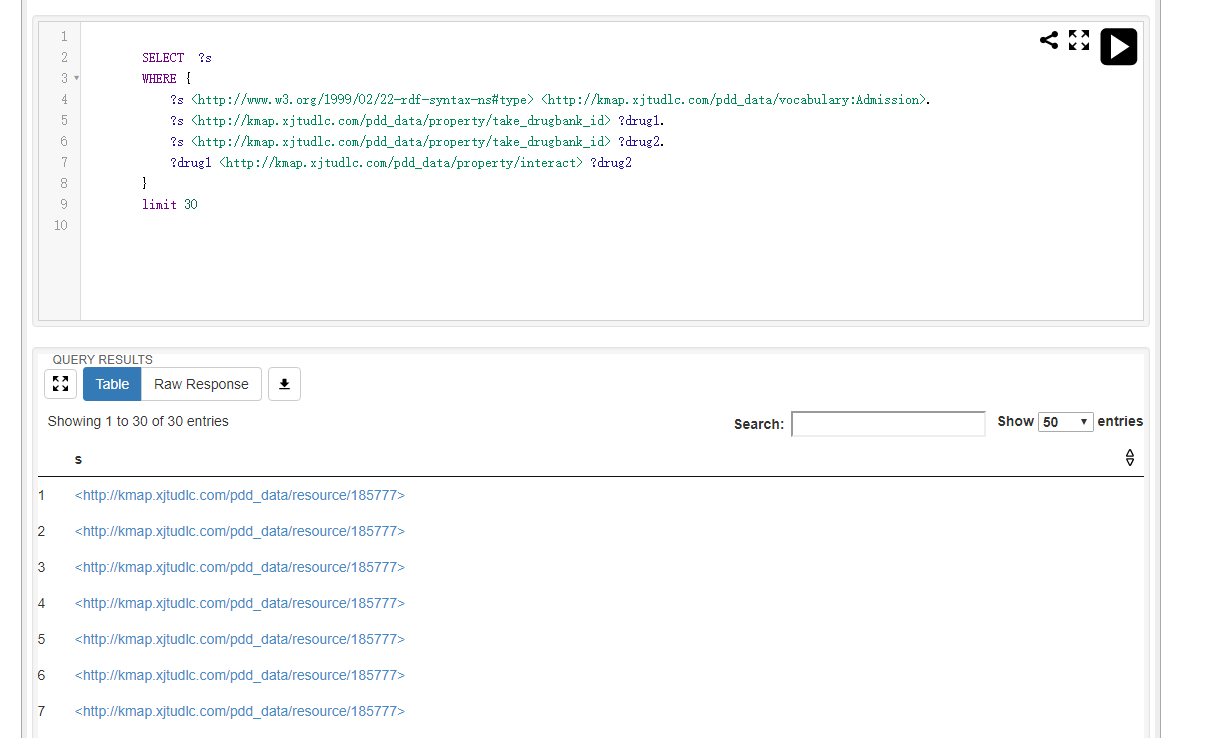
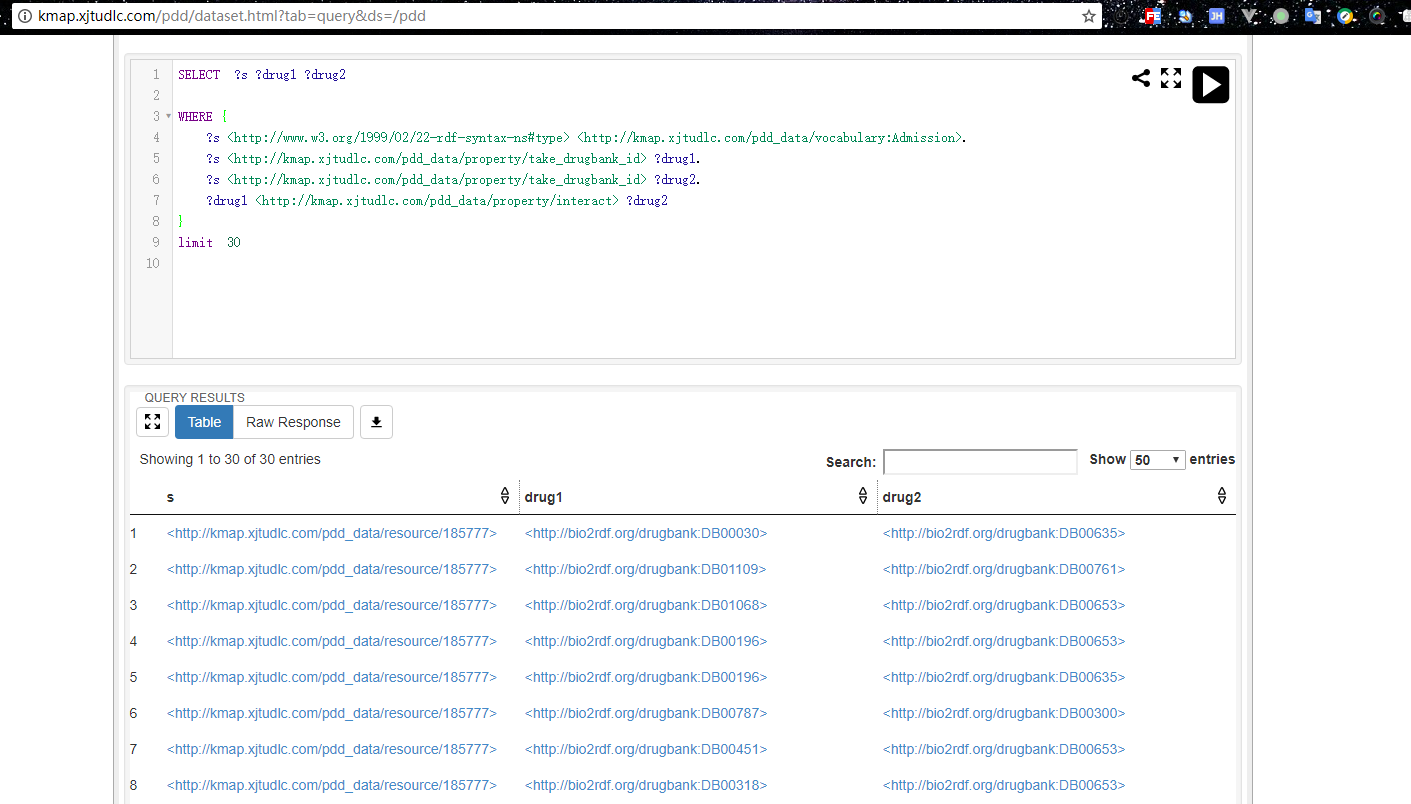
V1.3 补充说明

diff --git a/Tutorial.html b/Tutorial.html
@@ -115,10 +115,12 @@
     </code></pre>
     </p>
         <img src="my/example4.png" alt="">
-	<p id="example5">5. The patients who have taken in the drugs that interact with each other </p>
+        <p id="example5">5. The patients who have taken in the drugs that interact with each other（top 30 records）
+        </p>
     <p>
     <pre><code>
-SELECT  ?s
+SELECT  ?s ?drug1 ?drug2
+
 WHERE {
 	?s &lt;http://www.w3.org/1999/02/22-rdf-syntax-ns#type&gt; &lt;http://kmap.xjtudlc.com/pdd_data/vocabulary:Admission&gt;.
 	?s &lt;http://kmap.xjtudlc.com/pdd_data/property/take_drugbank_id&gt; ?drug1.
